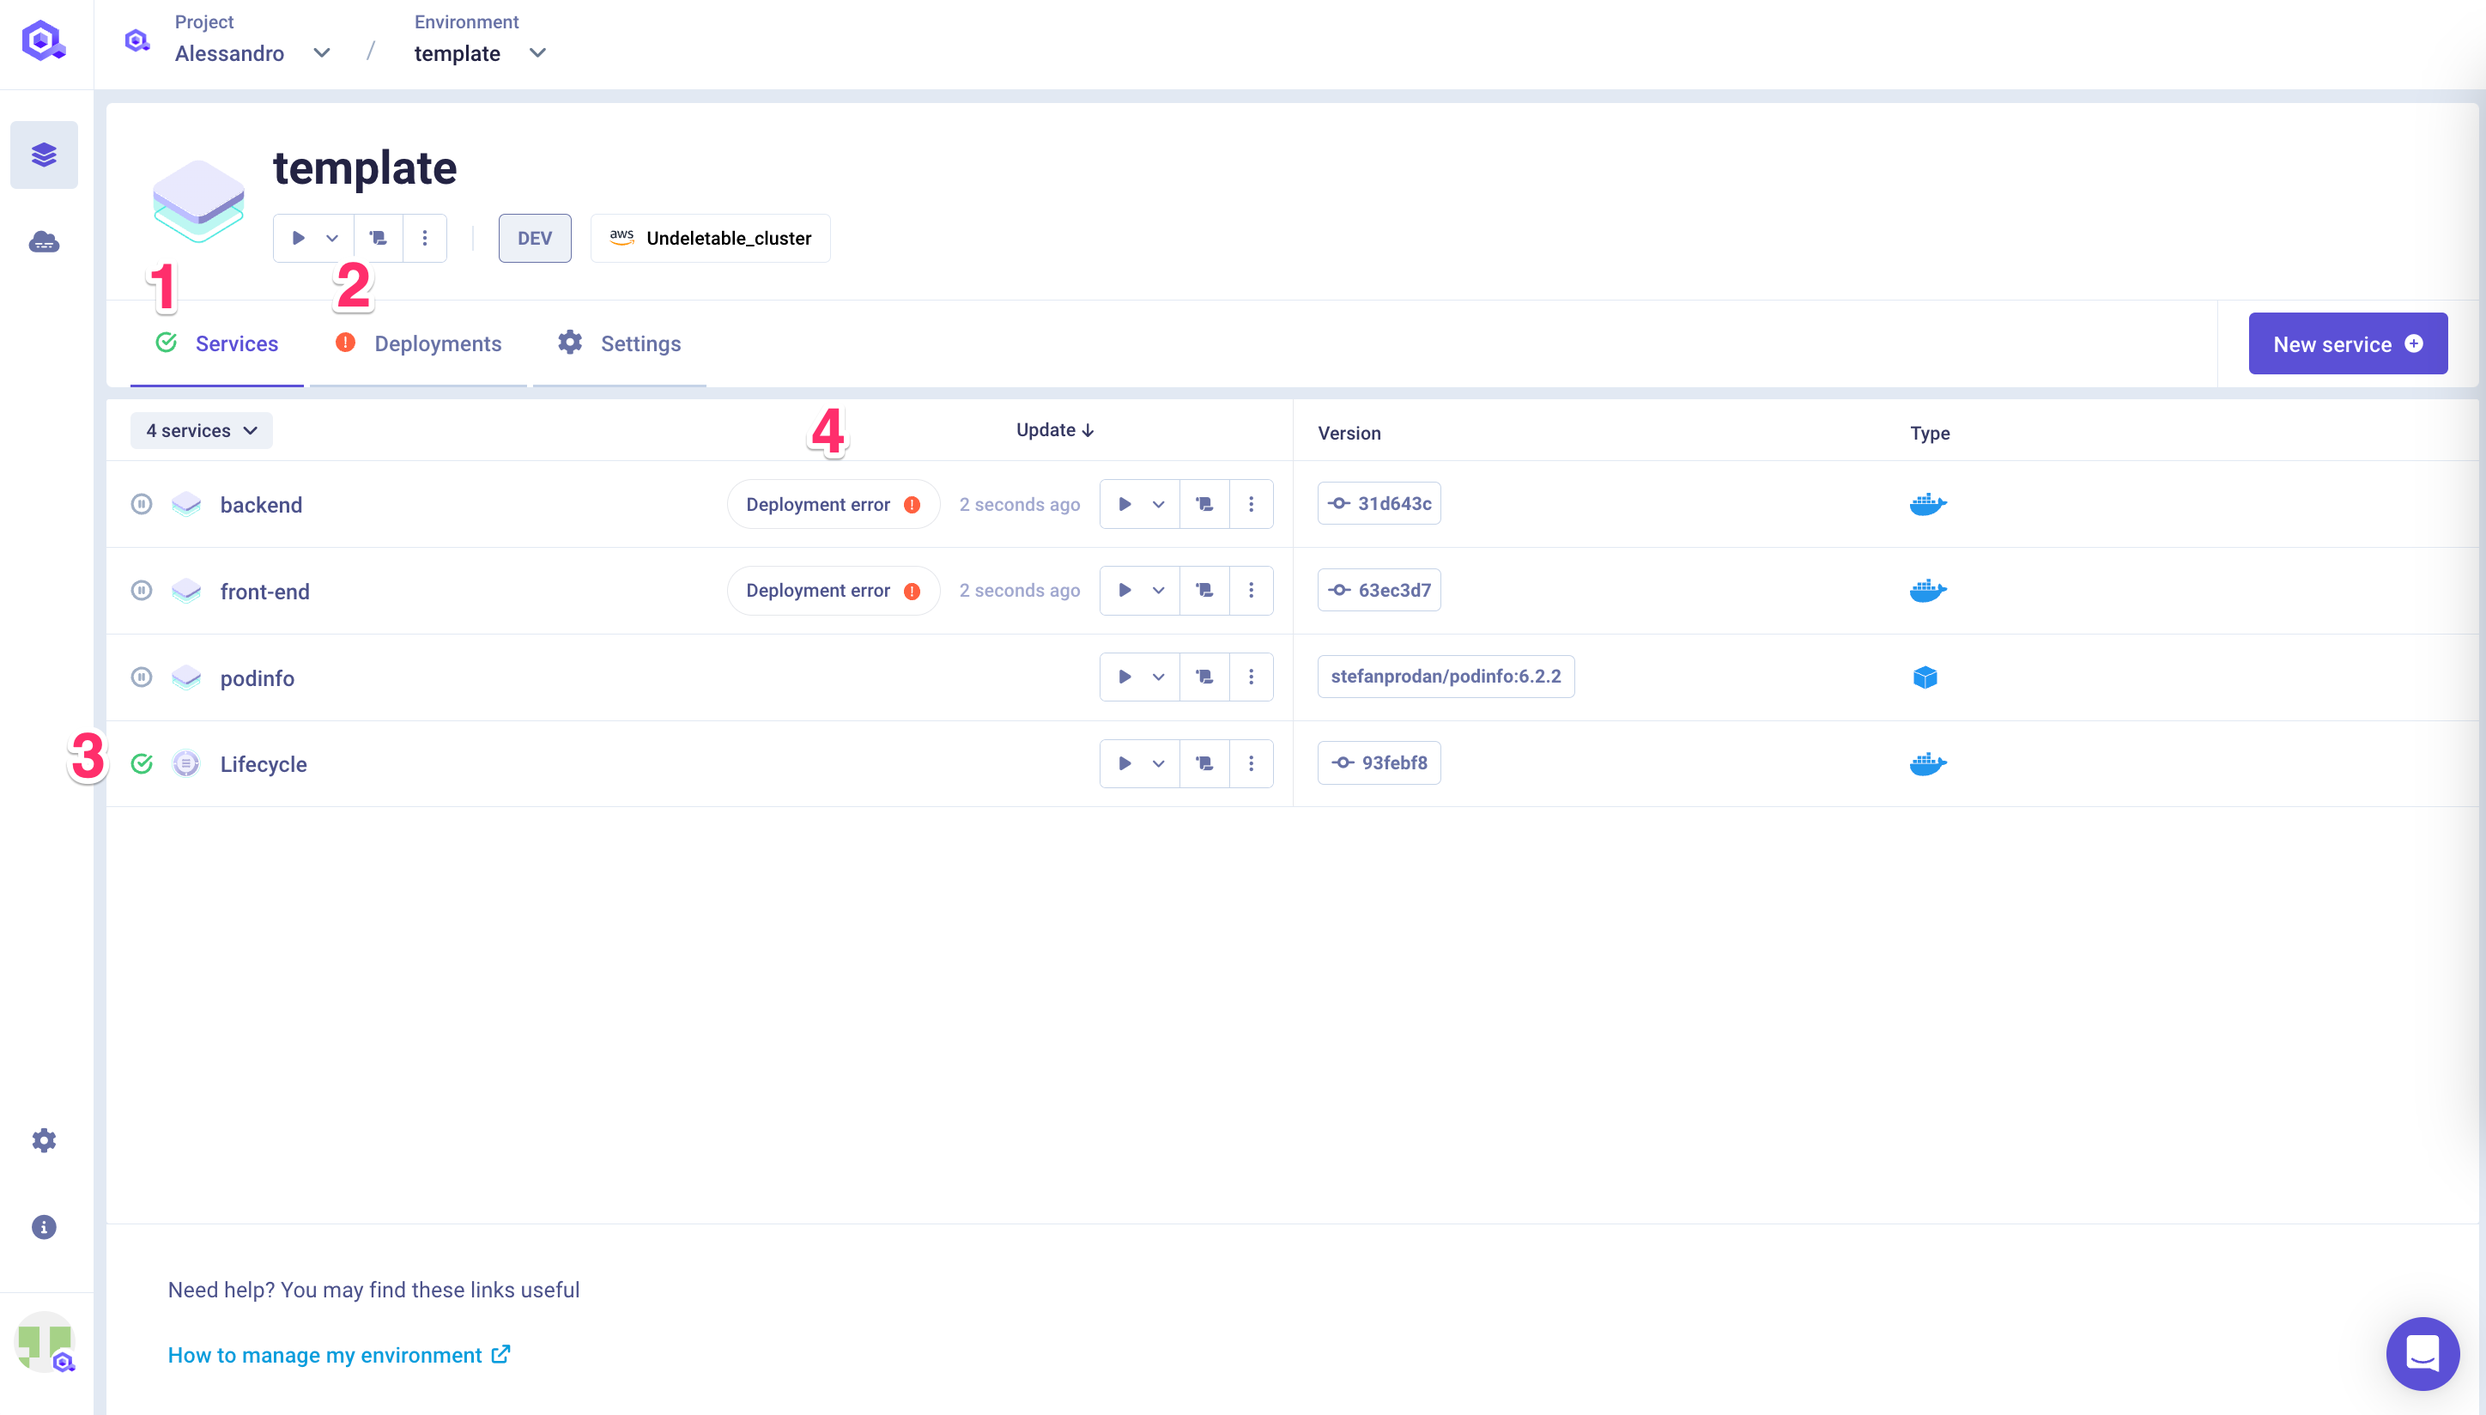
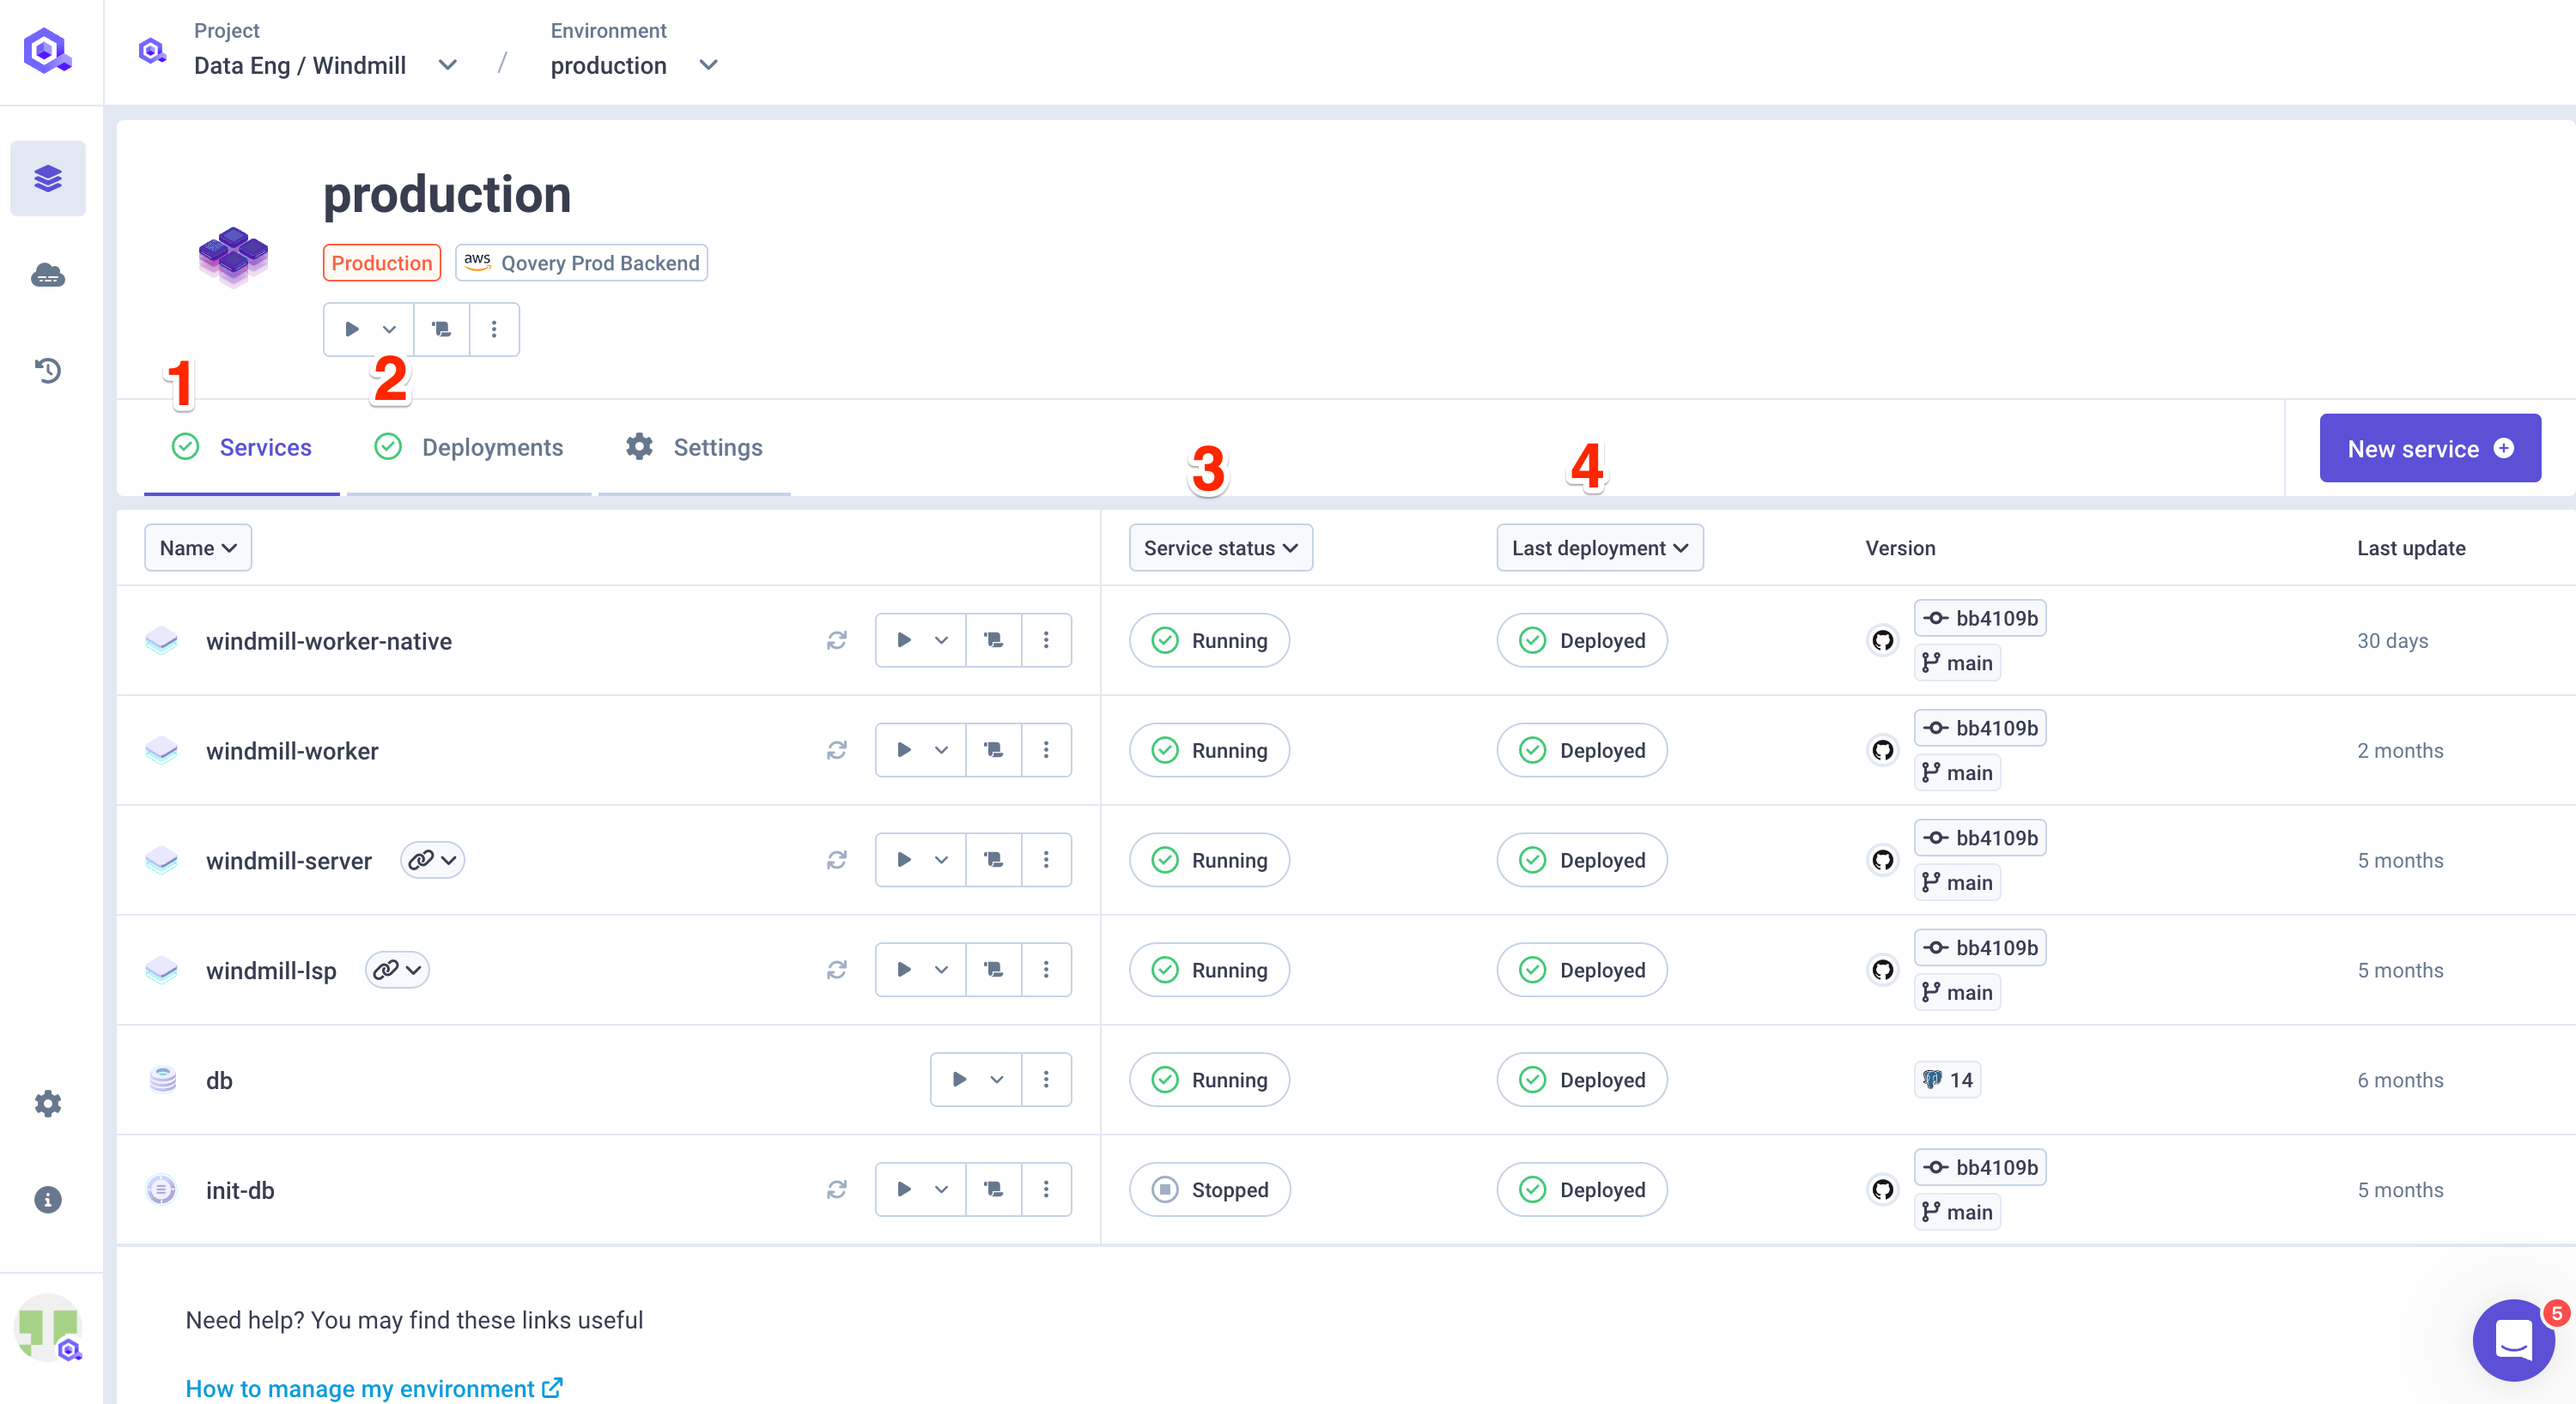
chore: update doc to reflect new service list and overview

diff --git a/website/docs/using-qovery/deployment/running-and-deployment-statuses.md b/website/docs/using-qovery/deployment/running-and-deployment-statuses.md
@@ -1,5 +1,5 @@
 ---
-last_modified_on: "2023-04-12"
+last_modified_on: "2023-12-06"
 title: "Running and Deployment Statuses"
 description: "Learn how to monitor your services"
 ---
@@ -17,8 +17,8 @@ From any environment window on your [Qovery Console][urls.qovery_console], you c
 |------|----------------------------------------------------------------------------------------------------------------------------------------------------------------------------------------------------------------------------------------------------------|
 | 1    | The dot in the service tab shows the environment running status. <br />  For more information, see the Environment Statuses section below.                                                  |
 | 2    | The dot in the deployment tab shows the environment deployment status. <br /> For more information, see the Deployment Statuses section below.                                                        |
-| 3    | The dot next to the name of the service represent the running status of the serice. <br /> For more information, see Service Statuses section below.  |
-| 4    | The label in the service table shows the deployment status of the service. <br /> For more information, see Deployment Statuses section below.                                     |
+| 3    | The label in the column "Service status" represents the running status of the serice. <br /> For more information, see Service Statuses section below.  |
+| 4    | The label in the column "Last deployment" represents the status of the latest deployment of the service. <br /> For more information, see Deployment Statuses section below.                                     |
 
 <!--
      THIS FILE IS AUTOGENERATED!
@@ -34,7 +34,7 @@ Thanks to Running statuses, you can find out which services are currently runnin
 
 ## Environment Statuses
 
-When you access an environment on your [Qovery Console][urls.qovery_console], you can check its status in real time. To do so, at the top of the environment window, hover over the status dot next to the environment name.
+When you access an environment on your [Qovery Console][urls.qovery_console], you can check its status in real time.
 
 The environment status is computed based on the statuses of all the services in that specific environment. Here are all the possible environment statuses:
 
@@ -51,13 +51,7 @@ The environment status is computed based on the statuses of all the services in 
 
 ## Service Statuses
 
-When you access an environment on your [Qovery Console][urls.qovery_console], you can check the status of each service in that environment in real time. To do so, hover over the status dot next to the service name.
-
-<Alert type="info">
-
-At the moment, you can only check the service status, meaning the overall status of your application (based on all the statuses of its various instances). Soon, you will also be able to check the status of each instance of your application from your console.
-
-</Alert>
+When you access an environment on your [Qovery Console][urls.qovery_console], you can check the status of each service in that environment in real time within the column "Service status".
 
 Here are all the possible service statuses:
 
@@ -69,15 +63,26 @@ Here are all the possible service statuses:
 | RUNNING *(Green dot)*     | All application instances are running correctly.                                                                         |
 | ERROR *(Red dot)*         | All application instances are in error status.                                                                           |
 | WARNING *(Orange dot)*    | *(Valid for multi-instance applications only)* At least 1 application instance is in error status (but not all of them). |
+| Completed *(Green dot)*    | *(Valid for Lifecycle and Cronjob only)* The job was correctly executed. |
 
+The service status is computed based on the status of each `Kubernetes pod` deployed for this application.
+
+### Pod status (Application instances)
+
+You can check in the `Service overview` page the status of each pod running your application in Kubernetes. This page is accessible by clicking on one of the services of your environment.
+
+Within this page you will have a view on:
+- the number of running instances of your application
+- the status of each instance
+- in case of error, you will get the reason behind the issue by clicking on the Pod in error.
 
 ## Deployment Statuses
 
 When you access an environment on your [Qovery Console][urls.qovery_console], you can check:
 
-* **the overall status of your deployments in that specific environment**, thanks to the label displayed next to the environment name. This corresponds to the status of the last deployment performed on the environment.
+* **the overall status of your deployments in that specific environment**, thanks to the dot present within the "Deployment" tab. This corresponds to the overall deployment status of your environment.
 
-* **the deployment status of each service in that specific environment**, thanks to the label displayed in the `Service` column. This corresponds to the status of the last deployment performed on the service.
+* **the deployment status of each service in that specific environment**, thanks to the label displayed in the `Service status` column. This corresponds to the status of the last deployment performed on the service.
 
  Here are all the possible deployment statuses for both environments and services:
 
